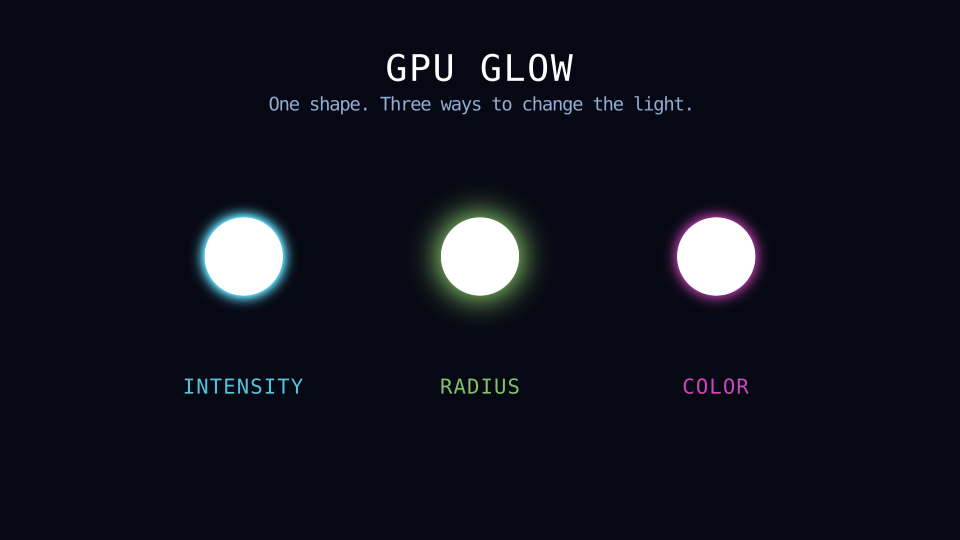
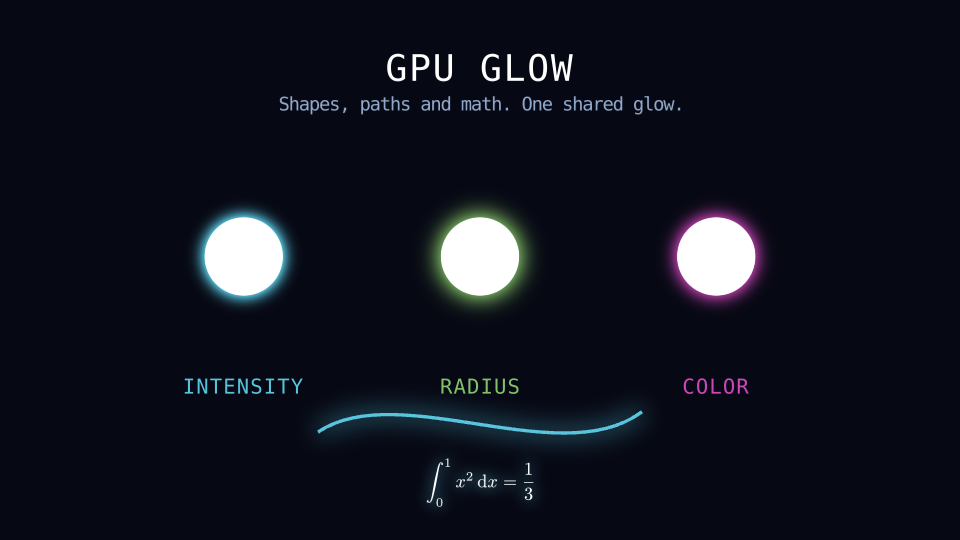
Refresh captured glow lesson and planar admission contract

Changed region(s): [[0.3125, 0.7407, 0.6875, 0.8296], [0.2812, 0.1778, 0.7188, 0.2074], [0.4375, 0.8593, 0.5625, 0.9481]]

diff --git a/web/python/examples/effect_authoring_contract.py b/web/python/examples/effect_authoring_contract.py
@@ -70,6 +70,11 @@ class EffectAuthoringContract(Scene):
         self.wait(0.1)
         # After a real completion barrier, setters must use live publication.
         # Rejecting an unsupported source profile must leave normal continuation usable.
+        live = self.live_execution()
+        live.set_scale(dot, 0.0, 1.0)
         rejects(NoonUnsupportedError, lambda: dot.set_glow(intensity=0.5))
         rejects(ValueError, lambda: dot.get_effect("glow"))
+        live.set_scale(dot, 1.0, 1.0)
+        # An ordinary outline now belongs to the planar capture profile.
+        dot.set_glow(intensity=0.5).remove_glow()
         assert dot.get_center() == (0.0, 0.0)

diff --git a/crates/noon/examples/effect_authoring_contract.rs b/crates/noon/examples/effect_authoring_contract.rs
@@ -25,7 +25,7 @@ fn main() -> Result<(), Box<dyn std::error::Error>> {
     assert_eq!(base.intensity(), 0.25);
     assert_ne!(original.node_id(), target.get_effect("glow")?.node_id());
 
-    // Multiple attachments and this unfilled source are outside the finite profile.
+    // Multiple attachments are outside the finite profile.
     // Reject the reachable source instead of silently dropping its appearance.
     assert!(scene.execution_session().is_err());
     scene.remove_effect(&dot, &original)?;

diff --git a/docs/gallery-curation.md b/docs/gallery-curation.md
@@ -65,12 +65,15 @@ scene background. The first brightens its glow, the second expands the Gaussian
 radius, and the third changes halo color. The initial glow begins absent and
 is enrolled at zero intensity by the ordinary shared Rust animation path. A
 later beat animates all intensities to zero, removes their generations, and
-re-enrolls fresh attachments for a readable final composition. The source is
+re-enrolls fresh attachments. A cubic path and MathTypst equation then reveal
+through Create and Write while their glow parameters animate concurrently.
+Their source coverage comes from the same retained geometry and glyph draws
+used for ordinary rendering. The source is
 `web/python/examples/showcase_gpu_glow.py`; no updater, duplicated effect
 engine, or private rendering API is involved.
 
-Its poster is the genuine 5.3-second held frame, with the strongest three
-parameter contrasts. Publish the manifest entry only together with its
+Its poster is the genuine 11.4-second held frame, showing the three parameter
+contrasts alongside the completed path and equation. Publish the manifest entry only together with its
 actual captured 16:9 PNG and source-bound capture evidence. Visual inspection
 must confirm that the source disks remain solid, halos extend beyond their
 silhouettes, the dark scene stays legible at gallery-card size, and neutral
